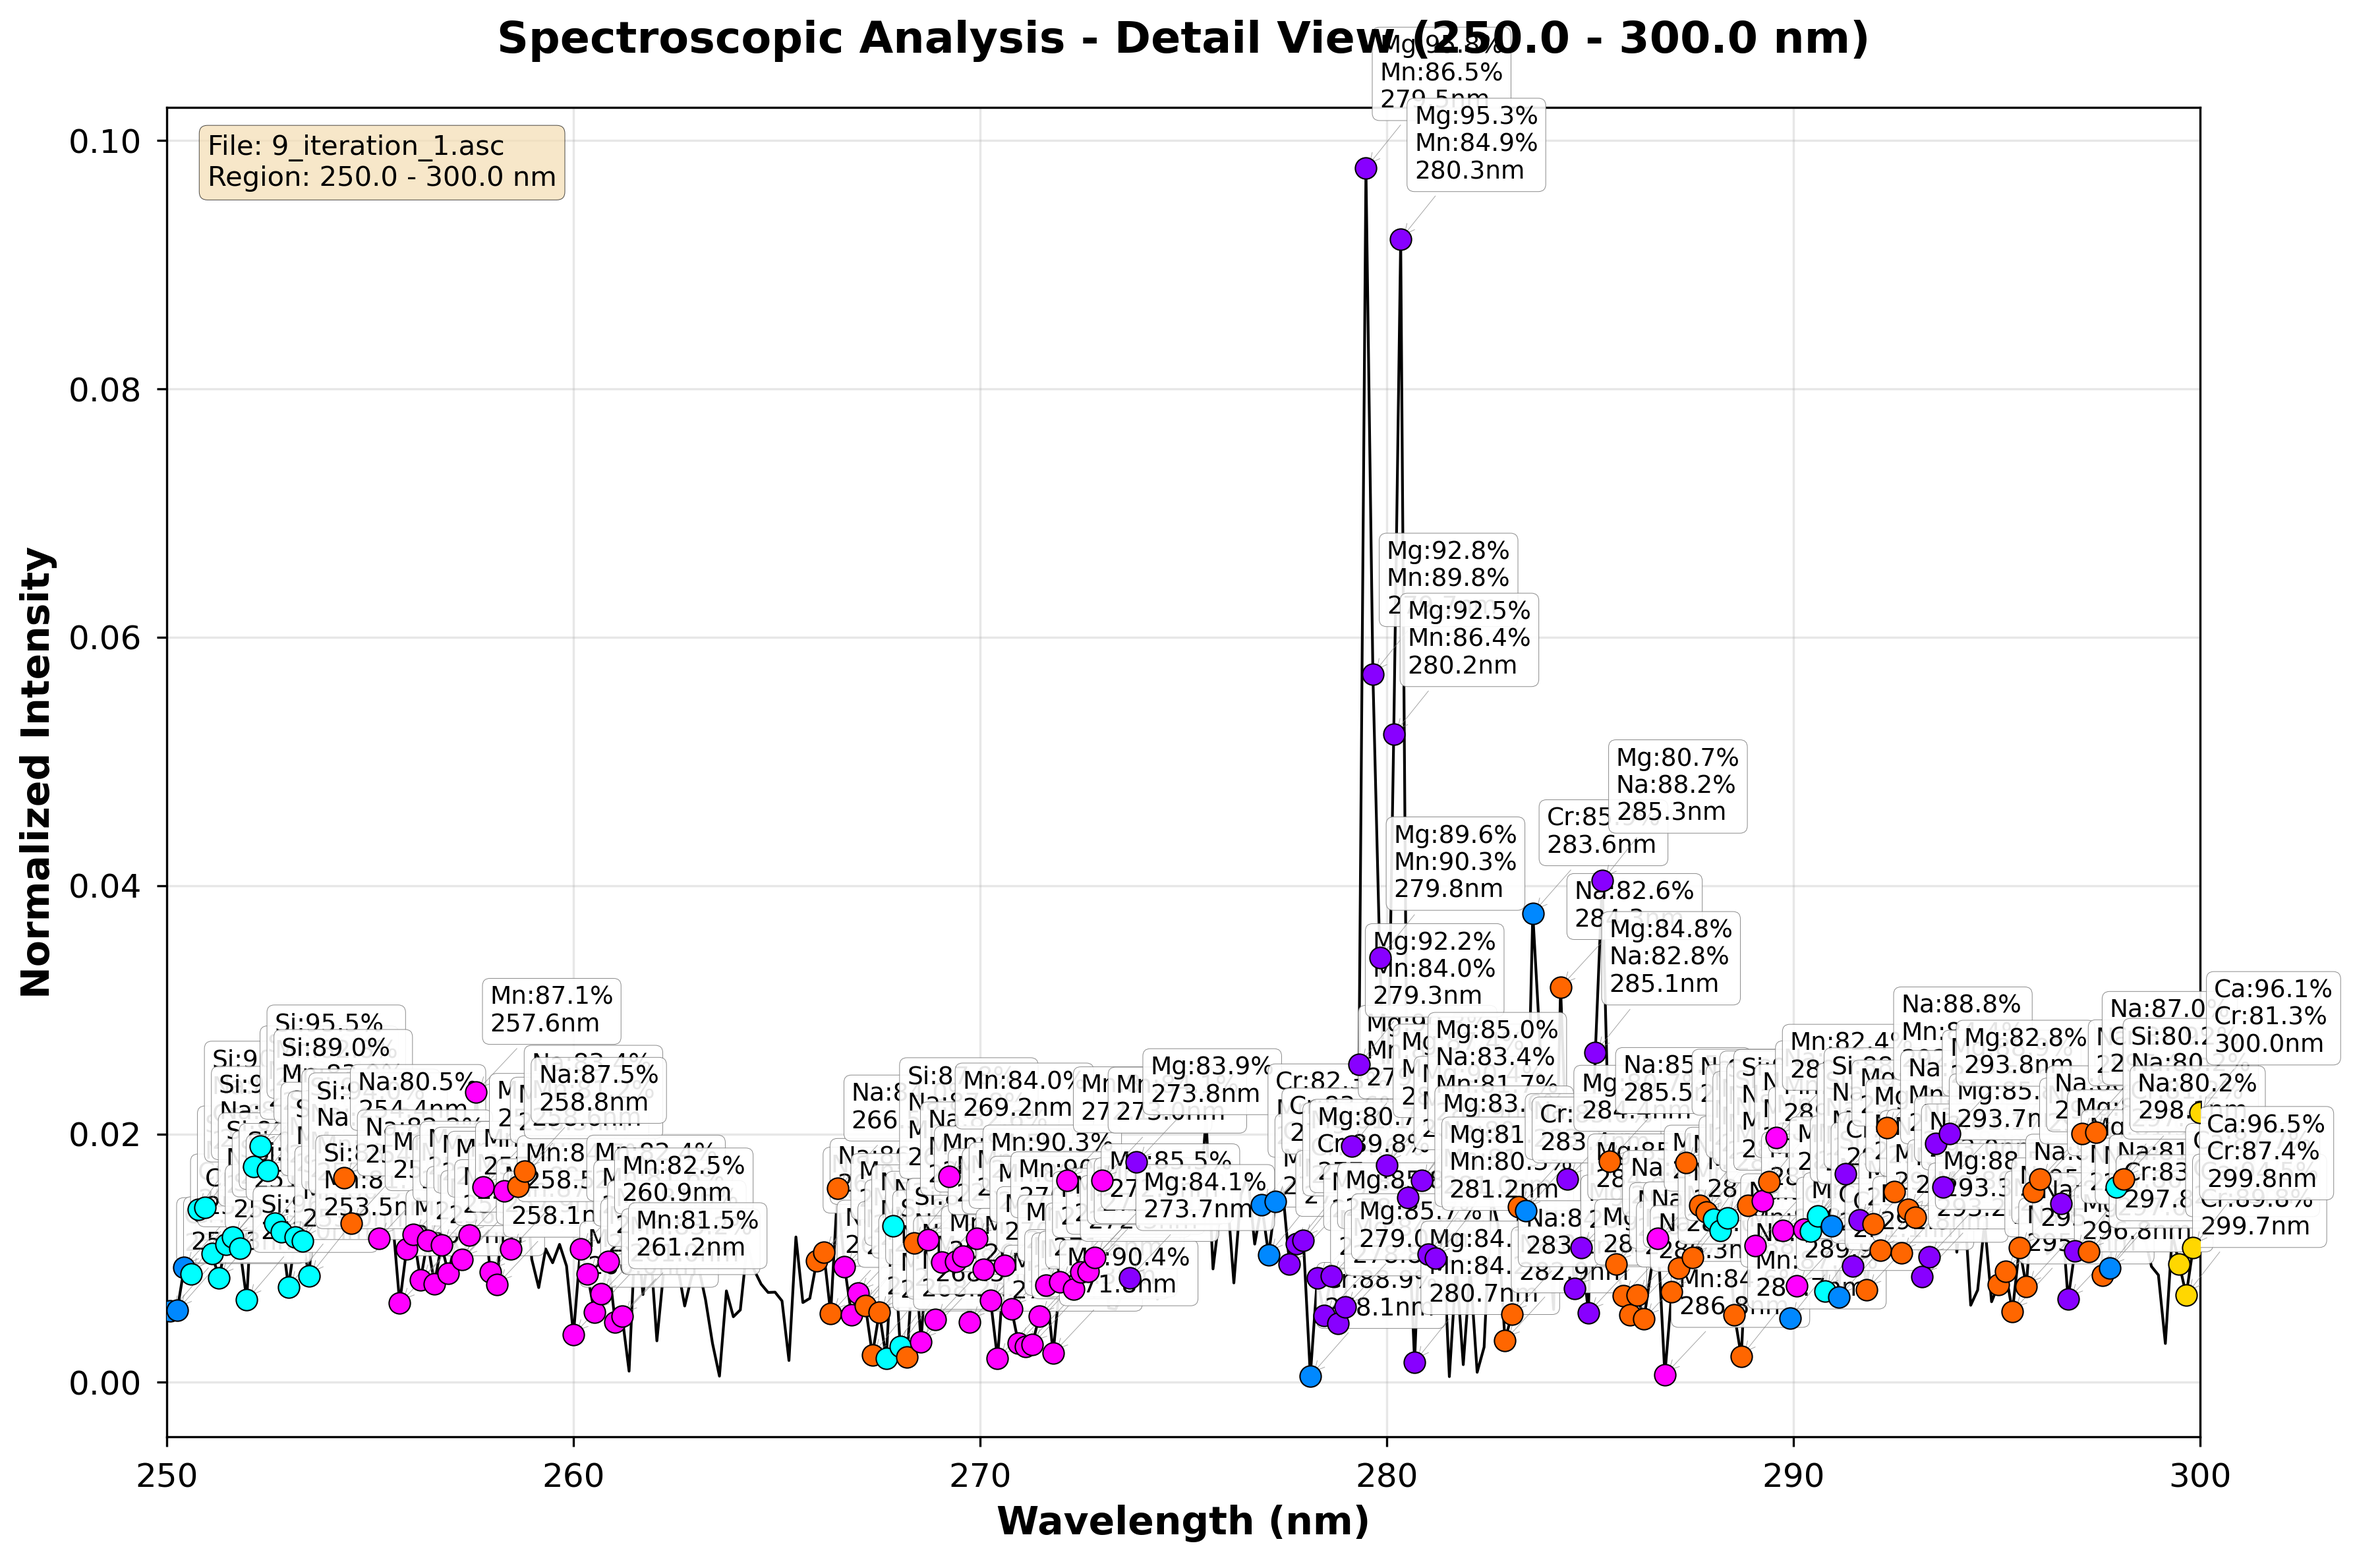
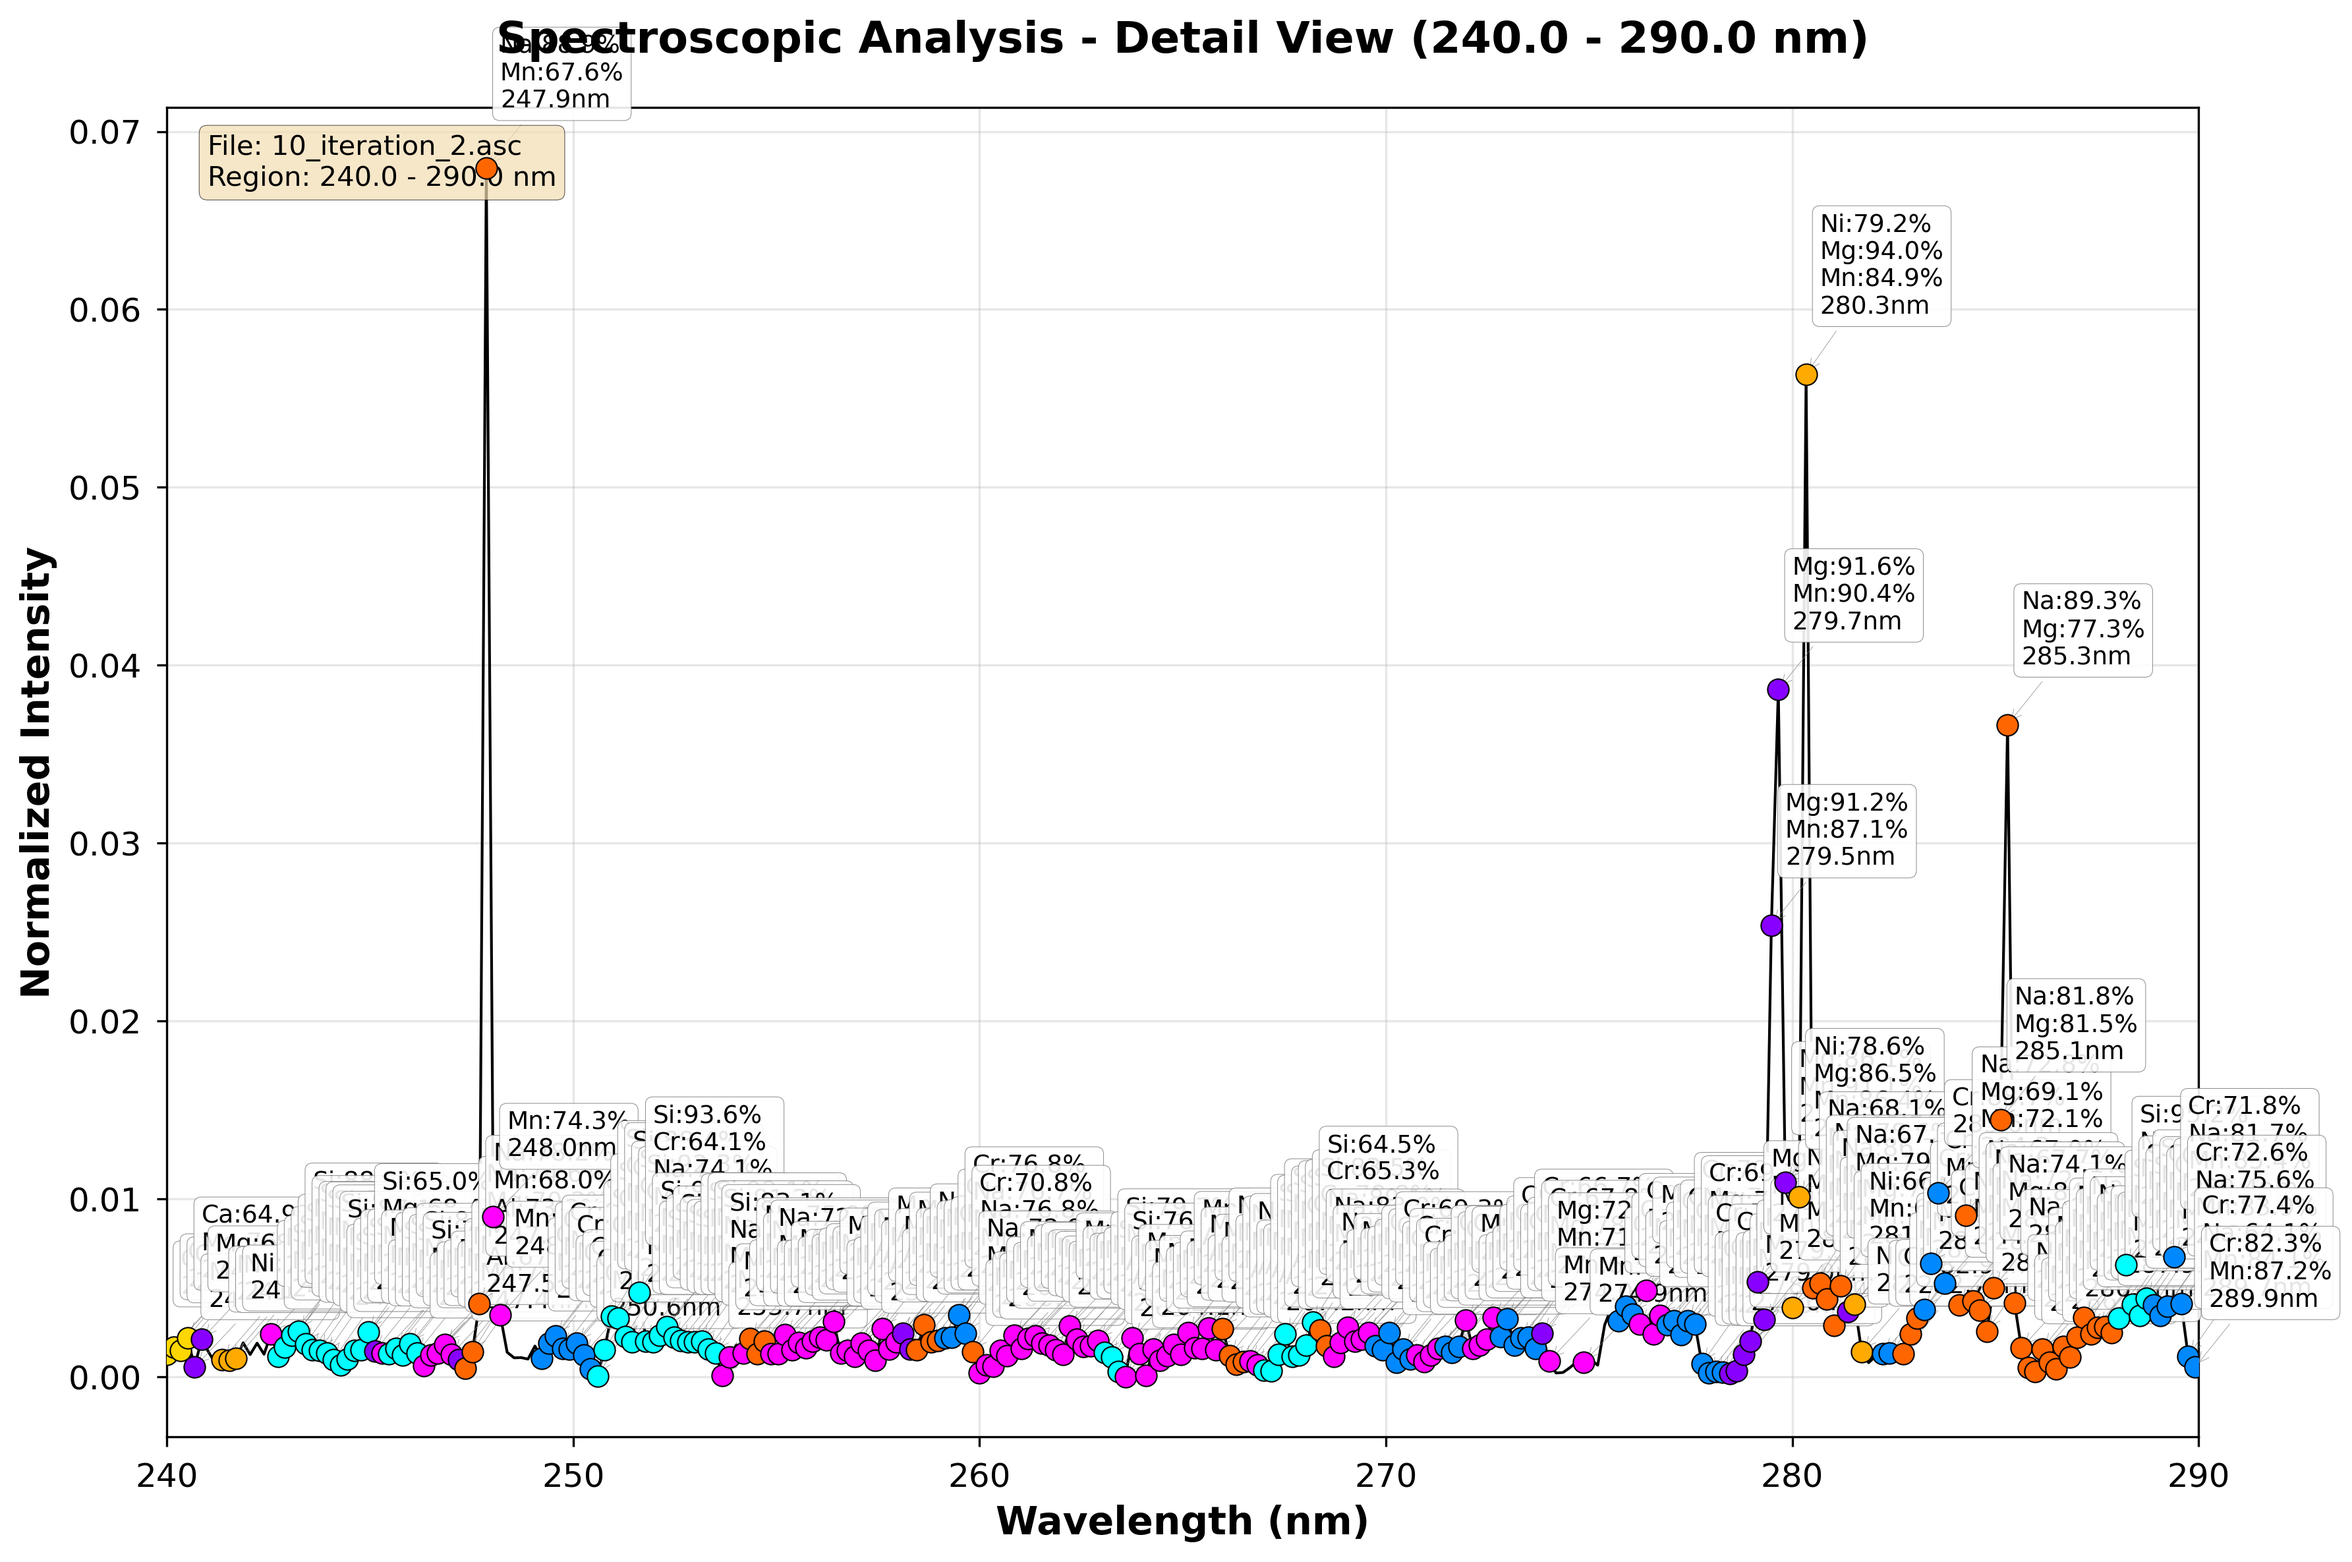
fix, remind

diff --git a/app/ui/main_window.py b/app/ui/main_window.py
@@ -673,6 +673,21 @@ class MainWindow(QtWidgets.QMainWindow):
             spectrum_region = self.spectrum[indices]
             spatial_pred_region = self.spatial_pred[indices, :]
 
+            # Detect peaks in the spectrum region
+            peaks, properties = signal.find_peaks(
+                spectrum_region,
+                height=min_height,
+                width=min_width,
+                prominence=prominence,
+                distance=min_distance
+            )
+
+            # Limit to max_peaks if specified
+            if len(peaks) > max_peaks:
+                # Sort by prominence and take top max_peaks
+                sorted_peaks = sorted(zip(peaks, properties['prominences']), key=lambda x: x[1], reverse=True)[:max_peaks]
+                peaks = [p[0] for p in sorted_peaks]
+
             # Clear detail plot
             self.detail_plot_widget.clear()
 
@@ -683,57 +698,57 @@ class MainWindow(QtWidgets.QMainWindow):
                 name='Spectrum'
             )
 
-            # Untuk setiap wavelength di region, cek elemen yang terdeteksi
+            # Label peaks with detected elements
             all_labels = []
-            for idx in range(len(wl_region)):
-                wl = wl_region[idx]
-                intensity = spectrum_region[idx]
-                labels_at_wl = []
-                for elem, global_prob in self.detected_elements[:10]:  # Batasi 10 elemen
+            for peak_idx in peaks:
+                wl = wl_region[peak_idx]
+                intensity = spectrum_region[peak_idx]
+
+                # Find the element with highest probability around this peak (within ±5 points)
+                best_elem = None
+                best_prob = 0
+                best_color = None
+                start_idx = max(0, peak_idx - 5)
+                end_idx = min(len(spatial_pred_region), peak_idx + 6)
+                for elem, global_prob in self.detected_elements[:10]:
                     elem_idx = self.element_names.index(elem)
-                    prob = spatial_pred_region[idx, elem_idx]
-                    if prob > detection_threshold:
-                        labels_at_wl.append((elem, prob, self.colors[self.element_names.index(elem) % len(self.colors)]))
+                    prob_region = spatial_pred_region[start_idx:end_idx, elem_idx]
+                    max_prob = np.max(prob_region)
+                    if max_prob > best_prob and max_prob > detection_threshold:
+                        best_prob = max_prob
+                        best_elem = elem
+                        best_color = self.colors[elem_idx % len(self.colors)]
 
-                if labels_at_wl:
-                    # Multilabel per titik
-                    primary_color = labels_at_wl[0][2] if len(labels_at_wl) == 1 else (128, 128, 128)
-
-                    # Marker
+                if best_elem:
+                    # Add scatter at peak
                     scatter = pg.ScatterPlotItem(
                         [wl], [intensity],
-                        pen=pg.mkPen(color=primary_color, width=2),
-                        brush=pg.mkBrush(*primary_color),
-                        size=10,  # Lebih kecil untuk banyak titik
+                        pen=pg.mkPen(color=best_color, width=2),
+                        brush=pg.mkBrush(*best_color),
+                        size=12,
                         symbol='o'
                     )
                     self.detail_plot_widget.addItem(scatter)
 
-                    # Label
-                    label_parts = [f"{elem}:{prob:.1%}" for elem, prob, _ in labels_at_wl]
-                    text_label = "\n".join(label_parts) + f"\n{wl:.1f}nm"
-
+                    # Add label
+                    text_label = f"{best_elem}:{best_prob:.1%}\n{wl:.1f}nm"
                     text = pg.TextItem(
                         text=text_label,
-                        color=primary_color,
-                        anchor=(0.5, 1.3),
-                        border=pg.mkPen(color=primary_color, width=1),
+                        color=best_color,
+                        anchor=(0.5, 1.5),
+                        border=pg.mkPen(color=best_color, width=1),
                         fill=pg.mkBrush(0, 0, 0, 150)
                     )
                     text.setPos(wl, intensity)
                     self.detail_plot_widget.addItem(text)
 
-                    # Vertical line (opsional, mungkin skip untuk banyak titik)
-                    # vline = pg.InfiniteLine(pos=wl, angle=90, pen=pg.mkPen(color=primary_color, width=1, style=QtCore.Qt.PenStyle.DotLine))
-                    # self.detail_plot_widget.addItem(vline)
-
-                    all_labels.append(f"@{wl:.1f}nm: {', '.join([elem for elem, _, _ in labels_at_wl])}")
+                    all_labels.append(f"@{wl:.1f}nm: {best_elem}")
 
             # Setup detail plot
             self.detail_plot_widget.setLabel('left', 'Intensity', **{'font-size': '10pt'})
             self.detail_plot_widget.setLabel('bottom', 'Wavelength (nm)', **{'font-size': '10pt'})
             self.detail_plot_widget.setTitle(
-                f'Detail View ({wl_start:.1f} - {wl_end:.1f} nm) - {len(all_labels)} detections',
+                f'Detail View ({wl_start:.1f} - {wl_end:.1f} nm) - {len(all_labels)} peaks labeled',
                 **{'font-size': '11pt'}
             )
             self.detail_plot_widget.showGrid(x=True, y=True, alpha=0.3)
@@ -788,37 +803,66 @@ class MainWindow(QtWidgets.QMainWindow):
             # Plot the spectrum region
             ax.plot(wl_region, spectrum_region, color='black', linewidth=1.0)
 
-            # Get detection threshold
+            # Get detection threshold and peak parameters
             try:
                 detection_threshold = float(self.threshold_input.text())
+                min_height = float(self.min_height_input.text())
+                min_width = float(self.min_width_input.text())
+                max_peaks = int(self.max_peaks_input.text())
+                prominence = float(self.prominence_input.text())
+                min_distance = float(self.min_distance_input.text())
             except ValueError:
                 detection_threshold = 0.4
+                min_height = 0.1
+                min_width = 1
+                max_peaks = 3
+                prominence = 0.05
+                min_distance = 5
 
-            # Add detected elements annotations
+            # Detect peaks in the spectrum region
+            peaks, properties = signal.find_peaks(
+                spectrum_region,
+                height=min_height,
+                width=min_width,
+                prominence=prominence,
+                distance=min_distance
+            )
+
+            # Limit to max_peaks
+            if len(peaks) > max_peaks:
+                sorted_peaks = sorted(zip(peaks, properties['prominences']), key=lambda x: x[1], reverse=True)[:max_peaks]
+                peaks = [p[0] for p in sorted_peaks]
+
+            # Add detected elements annotations at peaks
             colors = [
                 (255, 0, 0), (255, 102, 0), (255, 170, 0), (255, 215, 0), (0, 255, 0),
                 (0, 255, 255), (0, 136, 255), (0, 0, 255), (136, 0, 255), (255, 0, 255)
             ]
 
-            element_annotations = []
-            for idx in range(len(wl_region)):
-                wl = wl_region[idx]
-                intensity = spectrum_region[idx]
-                labels_at_wl = []
-                for elem, global_prob in self.detected_elements[:10]:  # Limit to 10 elements
-                    elem_idx = self.element_names.index(elem)
-                    prob = spatial_pred_region[idx, elem_idx]
-                    if prob > detection_threshold:
-                        labels_at_wl.append((elem, prob, colors[self.element_names.index(elem) % len(colors)]))
+            for peak_idx in peaks:
+                wl = wl_region[peak_idx]
+                intensity = spectrum_region[peak_idx]
 
-                if labels_at_wl:
-                    # Use primary color for scatter
-                    primary_color = labels_at_wl[0][2]
-                    ax.scatter(wl, intensity, color=np.array(primary_color)/255, s=60, zorder=5, edgecolors='black', linewidth=0.5)
+                # Find the element with highest probability around this peak
+                best_elem = None
+                best_prob = 0
+                best_color = None
+                start_idx = max(0, peak_idx - 5)
+                end_idx = min(len(spatial_pred_region), peak_idx + 6)
+                for elem, global_prob in self.detected_elements[:10]:
+                    elem_idx = self.element_names.index(elem)
+                    prob_region = spatial_pred_region[start_idx:end_idx, elem_idx]
+                    max_prob = np.max(prob_region)
+                    if max_prob > best_prob and max_prob > detection_threshold:
+                        best_prob = max_prob
+                        best_elem = elem
+                        best_color = colors[elem_idx % len(colors)]
+
+                if best_elem:
+                    ax.scatter(wl, intensity, color=np.array(best_color)/255, s=60, zorder=5, edgecolors='black', linewidth=0.5)
 
                     # Create annotation text
-                    label_parts = [f"{elem}:{prob:.1%}" for elem, prob, _ in labels_at_wl]
-                    text_label = "\n".join(label_parts) + f"\n{wl:.1f}nm"
+                    text_label = f"{best_elem}:{best_prob:.1%}\n{wl:.1f}nm"
 
                     # Position annotation above the point
                     ax.annotate(text_label,
@@ -832,8 +876,6 @@ class MainWindow(QtWidgets.QMainWindow):
             # Customize plot for publication
             ax.set_xlabel('Wavelength (nm)', fontsize=14, fontweight='bold')
             ax.set_ylabel('Normalized Intensity', fontsize=14, fontweight='bold')
-            ax.set_title(f'Spectroscopic Analysis - Detail View ({wl_start:.1f} - {wl_end:.1f} nm)',
-                        fontsize=16, fontweight='bold', pad=20)
             ax.grid(True, alpha=0.3)
             ax.tick_params(axis='both', which='major', labelsize=12)
             ax.set_xlim(wl_start, wl_end)
